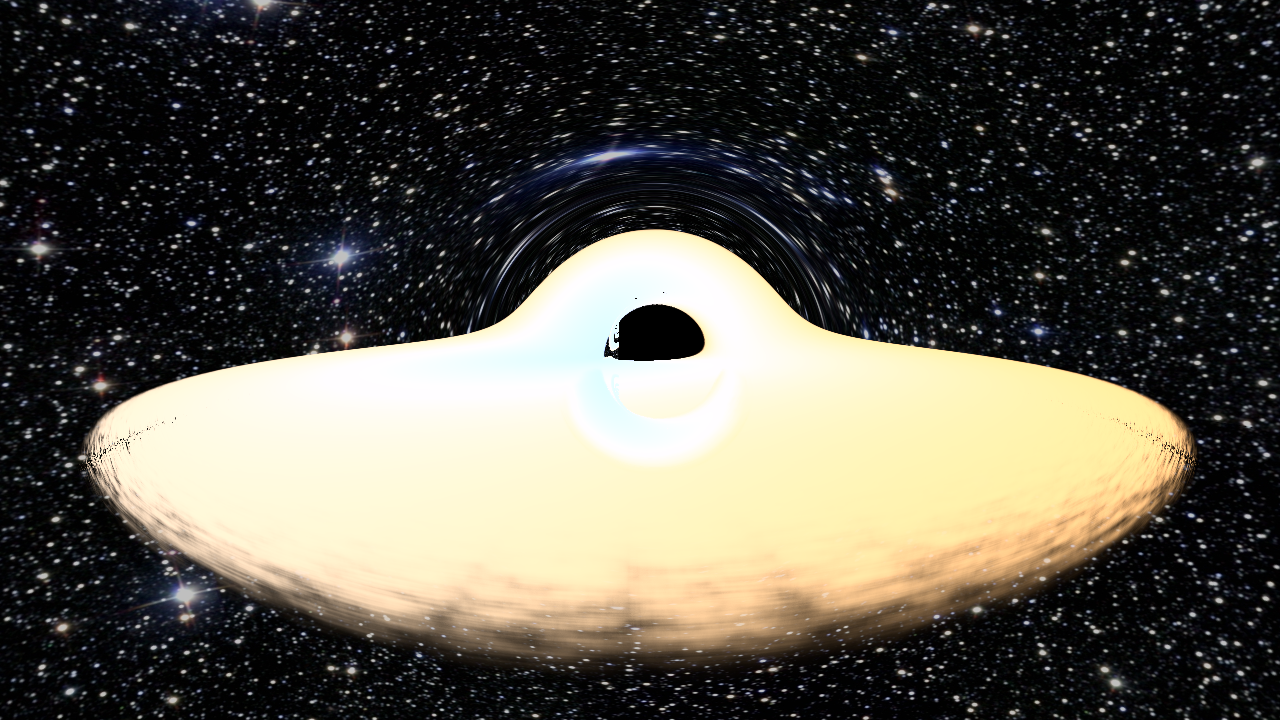
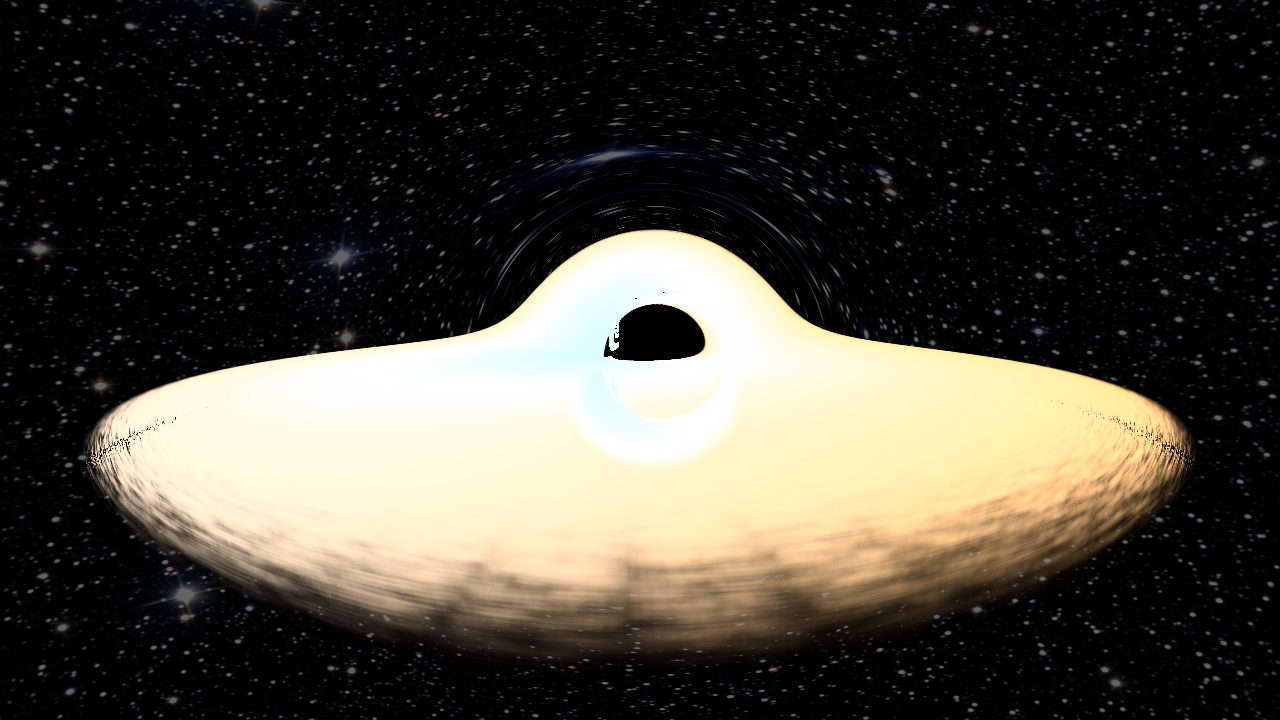
fix(images): exposure-compensate the 20000 K series frame
PR #122 review: the series intro promises brightness-matched frames, but
20000 K rendered at exposure 1 where compensation against the 12000 K
baseline needs (12000/20000)^4 ~ 0.13; the washout was an exposure
artifact attributed to temperature. Re-rendered at 0.13: comparable
brightness, outer-disc texture restored, and the caption now states the
real high-T story (chromaticity convergence toward blue-white).

diff --git a/images/kerr.md b/images/kerr.md
@@ -64,7 +64,7 @@ the (T/T_ref)^4 brightness difference so the frames stay comparable.
 
 <div align="center">
   <img src="kerr_disc_temperature_20000k.png" alt="Kerr volumetric disc at 20000 K peak temperature: cream white">
-  <p>20000 K (exposure 1): cream-white; maximal visibility, the temperature gradient washed toward uniform brightness.</p>
+  <p>20000 K (exposure 0.13): pale ivory with a blue-white core. At matched brightness the frame is only mildly hotter-looking than 12000 K, because the visible-band blackbody chromaticity converges toward blue-white above ~10000 K; most of what higher temperature buys here is radiance, not color.</p>
 </div>
 
 ### Photon-ring windings
